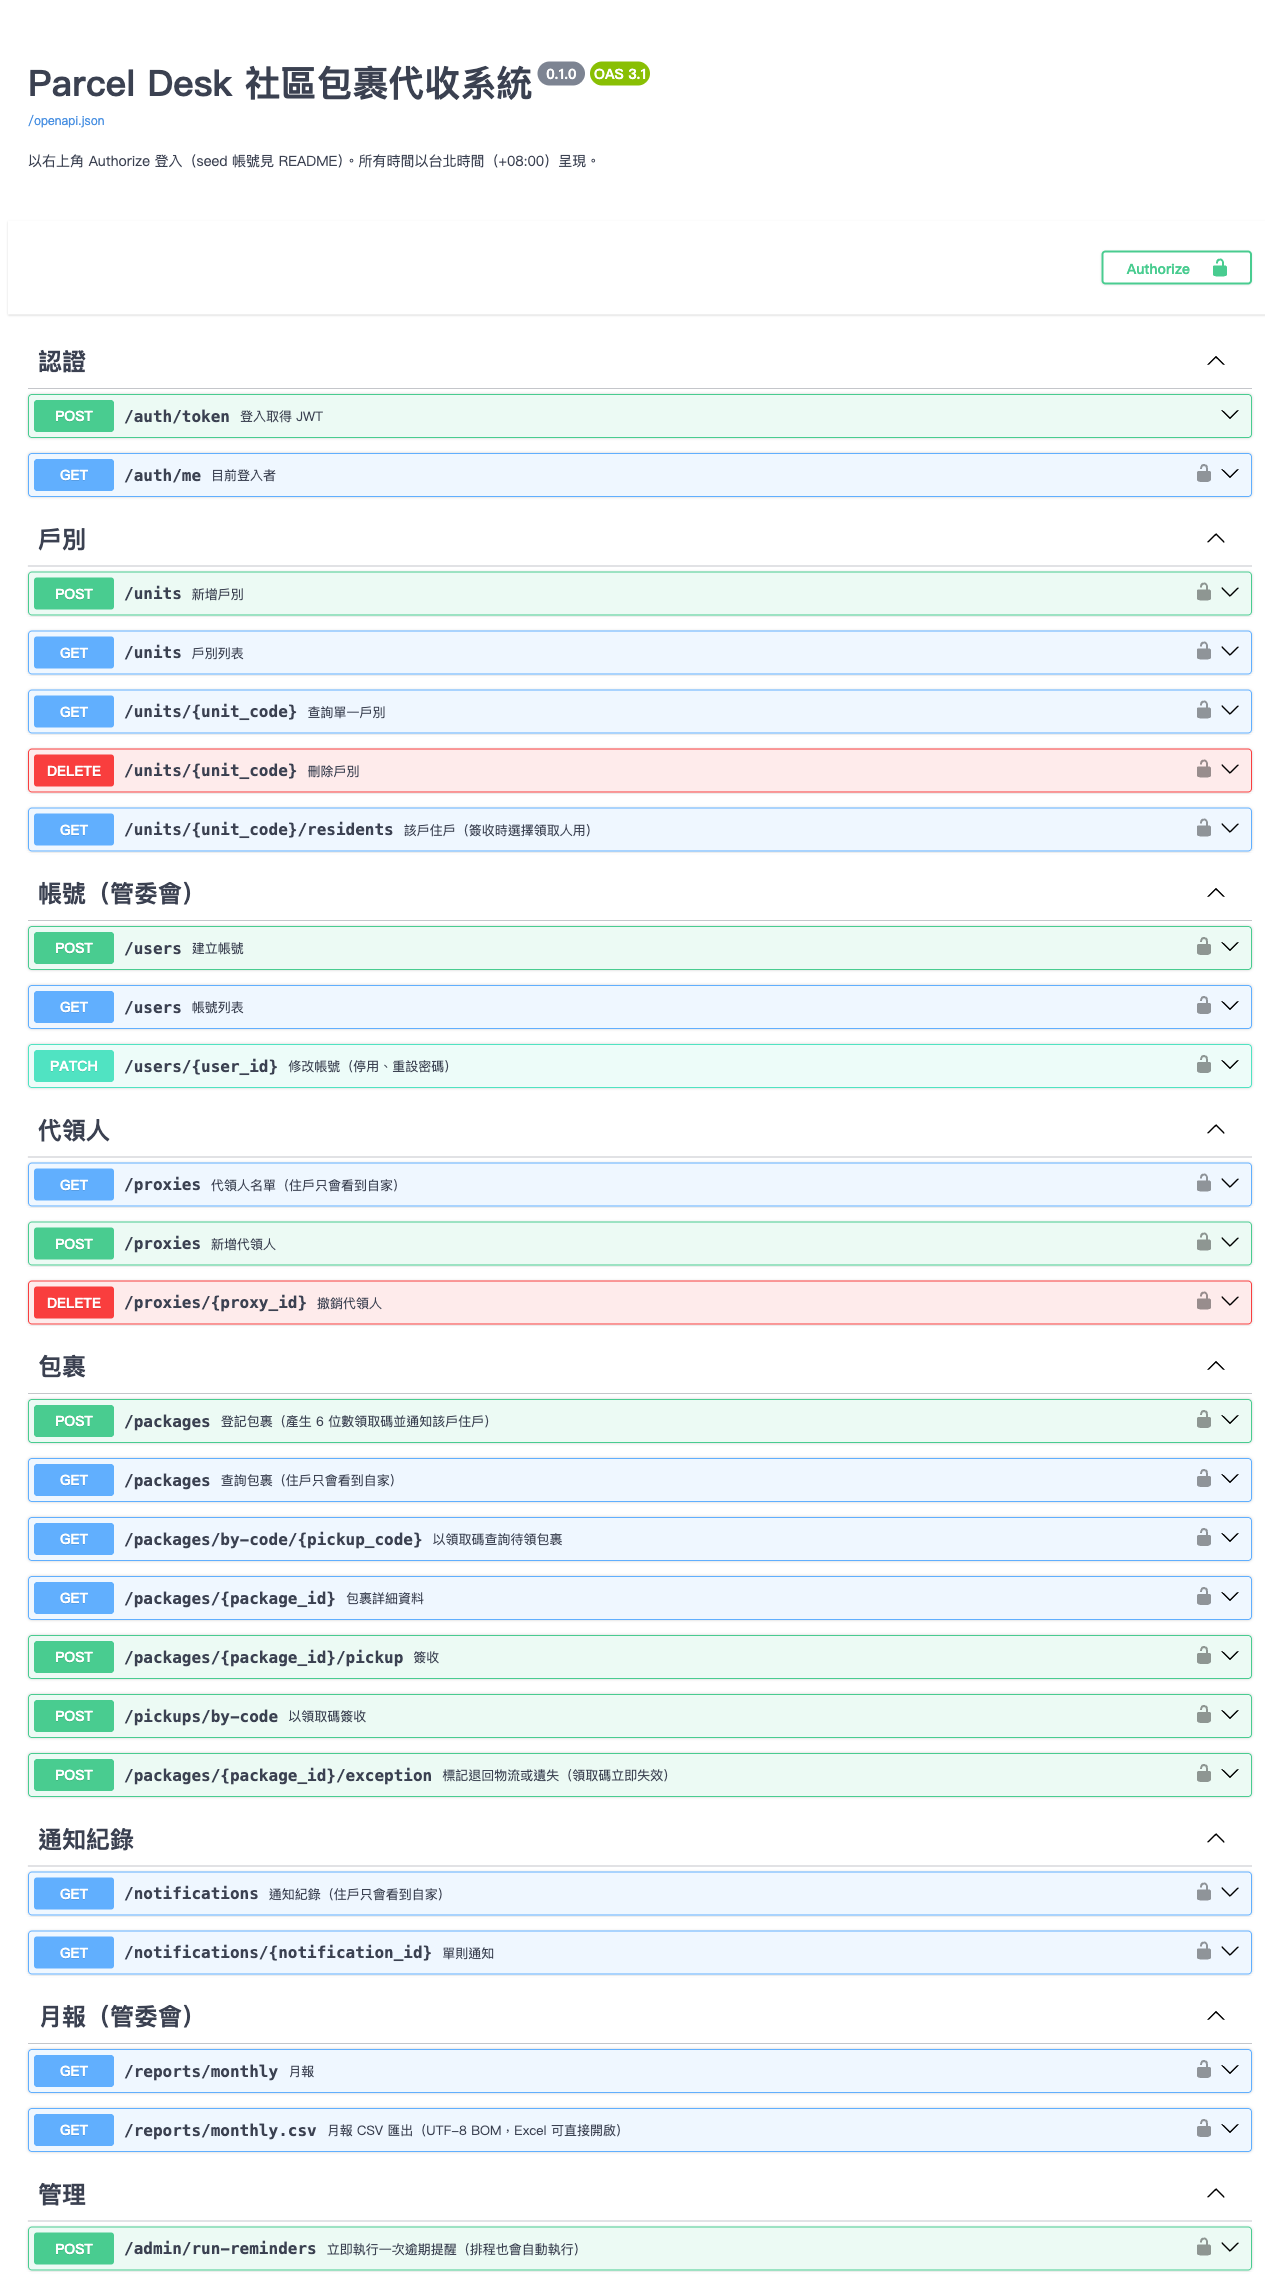
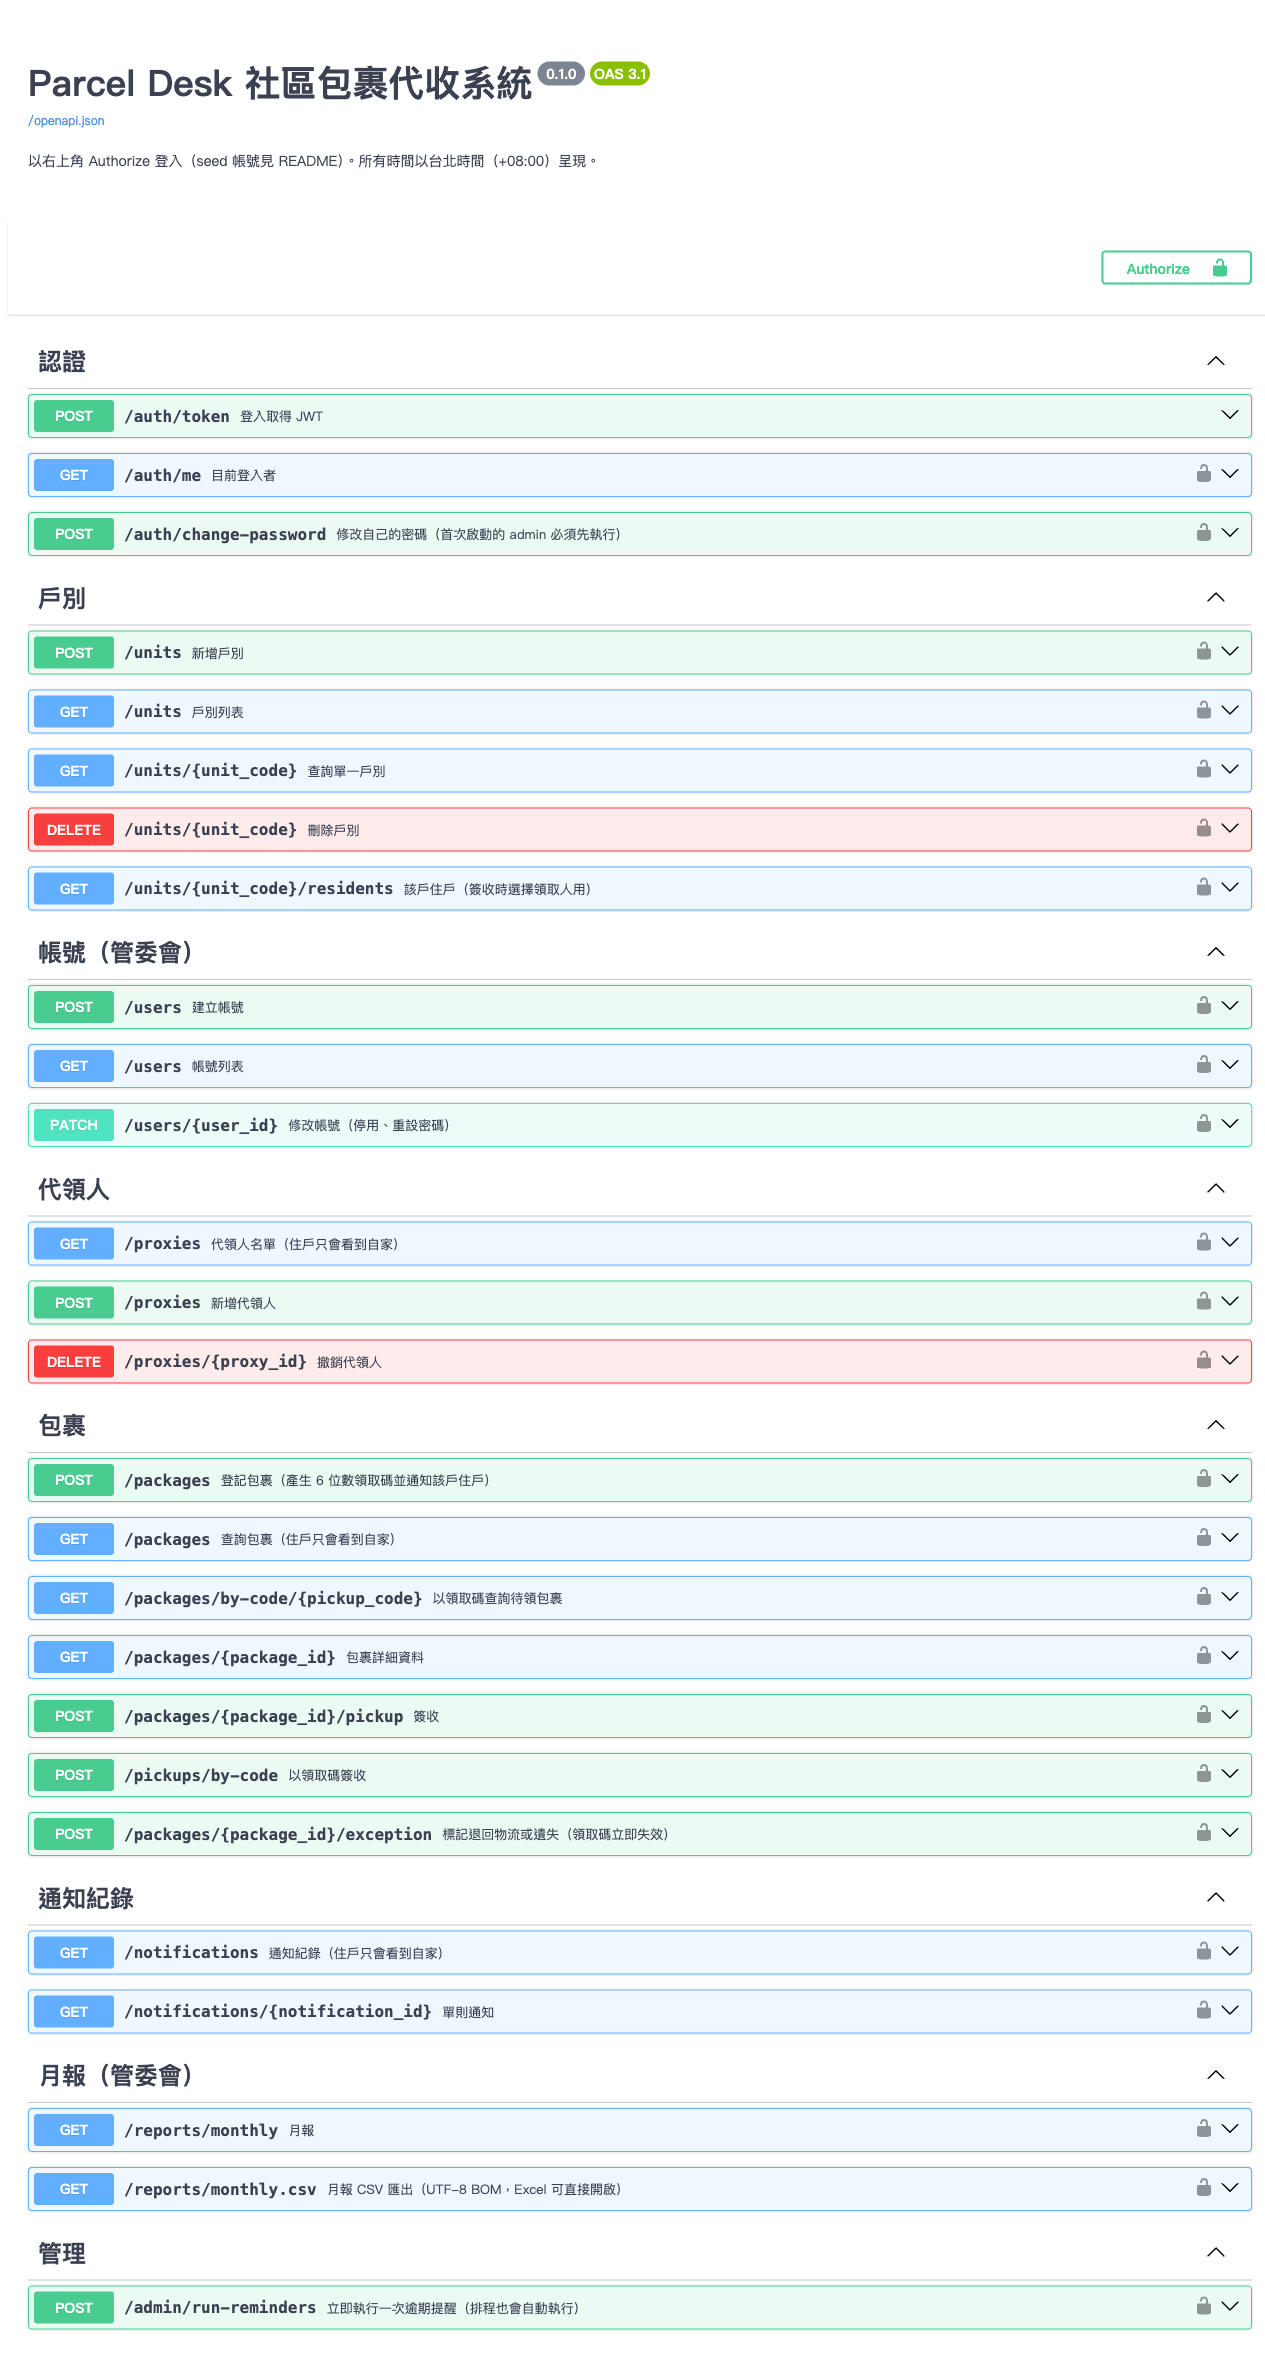
更新文件：示範 / 正式模式、安全性說明與第二輪回歸測試
- README：兩種啟動模式、正式模式首次啟動流程、安全性章節、CI 與 LICENSE 徽章
- DESIGN.md：記錄 v1.1 的啟動與 JWT 密鑰設計，以及修改的原因
- TEST_REPORT.md：review 問題的重現與修正後驗證（含 kill -9 中斷 demo 建置）
- 重拍 Swagger 總覽截圖（新增 /auth/change-password）

diff --git a/docs/TEST_REPORT.md b/docs/TEST_REPORT.md
@@ -2,7 +2,7 @@
 
 | 項目 | 內容 |
 |---|---|
-| 測試日期 | 2026-10-14 |
+| 測試日期 | 2026-10-14（第一輪）、2026-10-14（第二輪：review 修正後回歸，見第 7 節） |
 | 受測版本 | `main` 分支（本報告隨附的 commit） |
 | 測試環境 | macOS（Apple Silicon）、Python 3.12.15 / 3.13.16、SQLite（檔案型） |
 | 主要套件 | FastAPI 0.143.1、SQLAlchemy 2.1.4、Alembic 1.20.0、Pydantic 2.14.1、APScheduler 3.11.3、pytest 9.1.1 |
@@ -137,5 +137,49 @@ uv run pytest --cov=parcel_desk --cov-report=term-missing
 ## 6. 未涵蓋與限制
 
 - **真正的多執行緒併發寫入**沒有做壓力測試。兩櫃台的衝突情境是以兩個獨立的 DB session 模擬「同時讀到待領、先後送出」，藉此驗證條件式更新與唯一鍵的防護。
-- **Windows 實機**沒有實測。已加入 `tzdata` 相依，以確保 Windows 上可以使用 `Asia/Taipei` 時區。
+- **Windows 實機**沒有實測。已加入 `tzdata` 相依，以確保 Windows 上可以使用 `Asia/Taipei` 時區。（第二輪已加入 Windows CI，見 7.4）
 - 時間相關的驗收（第 7 天、24 / 48 小時、第 11 分鐘）在實機 E2E 中無法讓真實時間前進，所以由自動化測試的可注入時鐘驗證；實機則確認 seed 重演出的提醒紀錄確實存在。
+
+## 7. 第二輪：review 修正後的回歸測試
+
+外部 review 指出三個問題。以下每一項都**先重現問題**，修正後**再以相同手法驗證**。
+
+### 7.1 問題重現（修正前）
+
+| # | 問題 | 重現方式 | 修正前結果 |
+|---|---|---|---|
+| 1 | JWT 預設密鑰公開在 repo | 用 repo 中的預設字串自行簽一個 `sub=1` 的 token，呼叫 `/reports/monthly` | **200**（取得管委會權限） |
+| 2 | 一鍵啟動把示範資料寫進正式資料庫；seed 中斷後不再補齊 | 檢查 `is_seeded`：只要有任何一個帳號就判定已完成；seed 逐步 commit | 確認屬實 |
+| 3 | `.coverage` 被 commit 進 repo；缺少 CI 與 LICENSE | `git ls-files` | 確認屬實 |
+
+### 7.2 修正後驗證
+
+| 項目 | 方法 | 結果 |
+|---|---|---|
+| 偽造 token | 對啟動中的 API 重跑 7.1 #1 的手法 | **401** ✅ |
+| 正常登入不受影響 | 真實帳號登入後呼叫同一個 API | 200 ✅ |
+| 密鑰檔 | `data/.jwt_secret` 權限、是否被 git 忽略 | `-rw-------`，被 `.gitignore` 的 `data/` 排除 ✅ |
+| 不安全的密鑰 | 以舊預設值或過短的密鑰啟動 | exit 1，並顯示清楚的錯誤訊息；資料庫檔沒有被建立 ✅ |
+| 正式模式首次啟動 | 刪除 `data/` 後執行 `parcel-desk` | 只有 1 個 admin，0 戶、0 件包裹；示範帳號 `staff_a` 登入回 401 ✅ |
+| 強制改密碼 | 以一次性密碼登入，呼叫 `/units` | 403 `PASSWORD_CHANGE_REQUIRED`；改密碼回 204 後，`/units` 回 200 ✅ |
+| 重啟不重建 admin | 再啟動一次正式模式 | 沒有再顯示首次啟動訊息 ✅ |
+| **demo 建置中斷** | `parcel-desk demo` 啟動 5 秒後 **`kill -9`** | `demo.db` 不存在，只留下 `demo.db.building` 暫存檔 ✅ |
+| 中斷後重新啟動 | 再次執行 `parcel-desk demo` | 清除暫存檔後完整重建：24 戶、52 帳號、70 件包裹 ✅ |
+| 實機 E2E | 在示範模式執行 `scripts/e2e_acceptance.py` | **15/15** ✅ |
+
+### 7.3 自動化測試
+
+新增 13 個測試，總數 **86 個，全數通過**，覆蓋率 97%：
+
+| 測試檔 | 件數 | 內容 |
+|---|---:|---|
+| `test_jwt_secret.py` | 7 | 自動產生並以權限 600 存檔、重啟沿用、每套安裝不同、拒絕過短與公開的預設值、**重現攻擊並確認回 401** |
+| `test_startup.py` | 6 | 正式模式只建立 admin、不載入示範資料；重啟不重建；改密碼前回 403；**模擬中斷時 demo 建置不留半套資料**；重建時取代而非疊加；不安全密鑰在碰資料庫前就結束 |
+
+`test_seed.py` 移除了 2 個測試舊行為（「空資料庫就 seed」的冪等性、`seed --reset` 指令）的測試，改由上表取代。
+
+`cli.py` 的覆蓋率是 63%：未覆蓋的是實際啟動 uvicorn 與印出橫幅的部分，已由 7.2 的實機驗證涵蓋。
+
+### 7.4 CI
+
+新增 GitHub Actions（`.github/workflows/ci.yml`）：在 **Ubuntu、Windows、macOS** 上，分別以 **Python 3.12 與 3.13** 執行 `uv sync --locked`、ruff 與 pytest。這也補上了第 6 節「Windows 實機沒有實測」的缺口。

diff --git a/docs/DESIGN.md b/docs/DESIGN.md
@@ -1,4 +1,4 @@
-# Parcel Desk 架構規劃與設計（v1.0，已確認並實作）
+# Parcel Desk 架構規劃與設計（v1.1）
 
 > 實作與 README 為準；本文件保留設計脈絡。
 
@@ -186,6 +186,12 @@ admin ⊇ staff（管委會也在現場，可代行管理員操作）。
 
 ## 6. 時間與可注入時鐘
 - `Clock` Protocol：`now() -> datetime`（aware UTC）。
+### 6.1 JWT 密鑰（v1.1）
+- 沒有預設值。未設定 `PARCEL_JWT_SECRET` 時，首次啟動以 `secrets.token_urlsafe(48)` 產生，
+  以 `O_EXCL` 加上權限 600 建立 `data/.jwt_secret`，之後沿用，所以重啟不會登出使用者。
+- 有設定時：少於 32 字元、或命中曾公開的舊預設值（黑名單），就拒絕啟動。
+- 起因：v1.0 的預設值公開在 repo 中，任何人都能偽造管委會 token。
+
 - 例外：JWT 效期使用真實時間（安全機制，且 PyJWT 驗證 `exp` 時也使用真實時間）。
 - API 透過 `Depends(get_clock)` 從 `app.state.clock` 取得；測試以 `create_app(settings, clock=FixedClock(...))` 注入，可 `advance(minutes=11)`。
 - 排程器與 seed 也透過同一介面，所以「第 7 天」「24h/48h」「第 11 分鐘」都能在測試中精準控制，不用 sleep、不用 freezegun。
@@ -197,11 +203,19 @@ admin ⊇ staff（管委會也在現場，可代行管理員操作）。
 - 好處：電腦 08:00–10:00 關機，開機後第一次執行就會**補送**當天提醒；部署只要一個指令，管理室不用另外設定工作排程器。
 - 已知限制（寫入 README）：API 程序沒在跑就沒有提醒；冷藏提醒最多延遲 10 分鐘；只能跑一個 API 程序（多 worker 會重複排程，但唯一鍵會擋下重複紀錄）。
 
-## 8. 一鍵啟動
-`uv run parcel-desk`（`[project.scripts]`）：
-1. 以程式呼叫 `alembic upgrade head`（DB 不存在就建立）。
-2. DB 為空時載入 seed（已有資料則略過；`uv run parcel-desk seed --reset` 可重建）。
-3. 啟動 uvicorn `0.0.0.0:8000`（兩個櫃台走區網連線），Swagger 在 `/docs`。
+## 8. 一鍵啟動（v1.1：示範與正式分離）
+兩種模式使用不同的資料庫檔，示範資料不可能混入正式資料：
+
+- `uv run parcel-desk demo`（示範，滿足「一個指令啟動並載入 seed」）：使用 `data/demo.db`。
+  不存在時（或加上 `--reset`）先在 `demo.db.building` 完成 migration 與 seed，成功後才
+  `os.replace` 成正式檔名。seed 逐步 commit、本身不具原子性，改名這一步讓整體具有原子性。
+- `uv run parcel-desk`（正式）：`alembic upgrade head` → 沒有任何帳號時建立 `admin`，
+  於終端機顯示一次性隨機密碼並標記 `must_change_password`。永不載入示範資料。
+- 兩者都會在碰資料庫之前先檢查 JWT 密鑰（見 §6.1），不安全就以 exit 1 結束。
+- 最後啟動 uvicorn `0.0.0.0:8000`（兩個櫃台走區網連線），Swagger 在 `/docs`。
+
+> v1.0 的做法是「空資料庫就自動 seed」。review 指出兩個問題：正式上線會建立密碼公開的帳號；
+> seed 被中斷後，`is_seeded` 只檢查有沒有任何帳號，會誤判已完成而不再補齊。因此改為上述設計。
 
 SQLite 設定：`foreign_keys=ON`、`journal_mode=WAL`（兩櫃台同時讀寫）、`busy_timeout=5000`。
 
